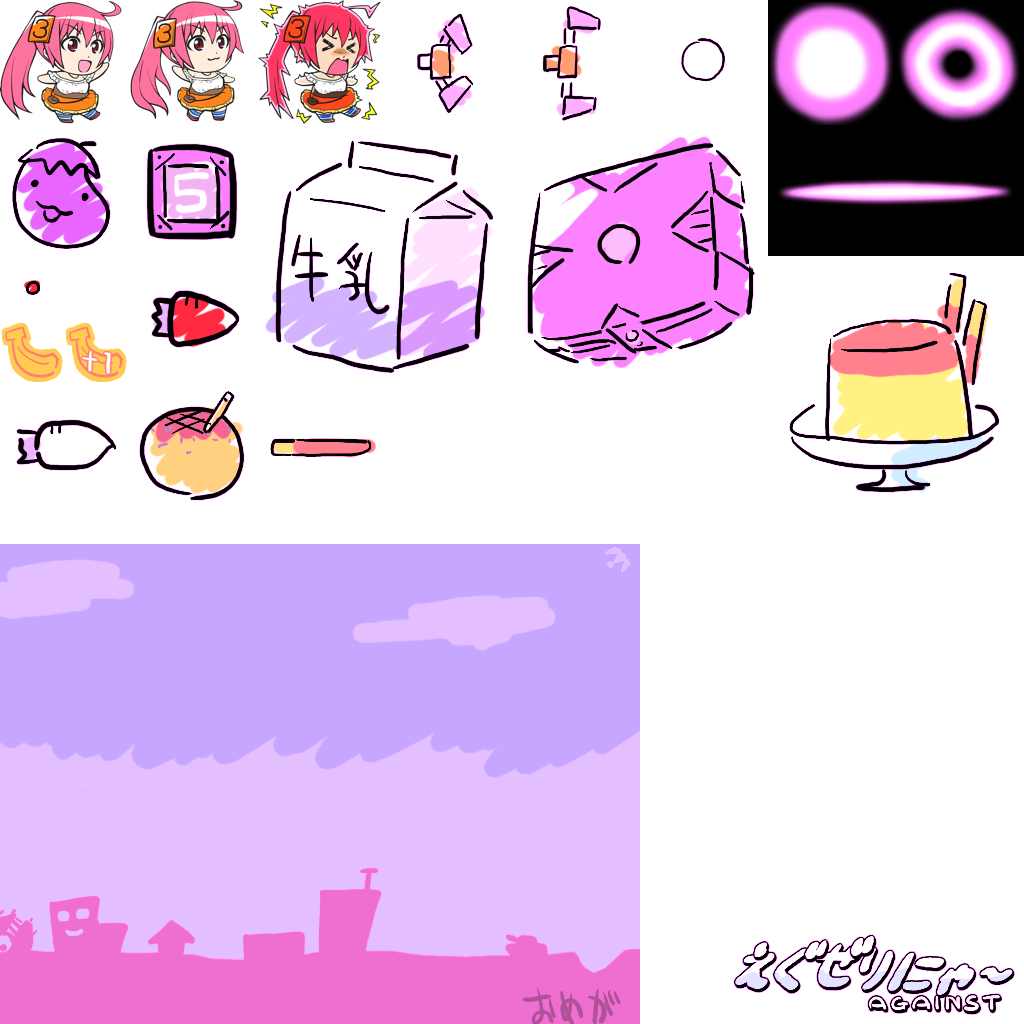
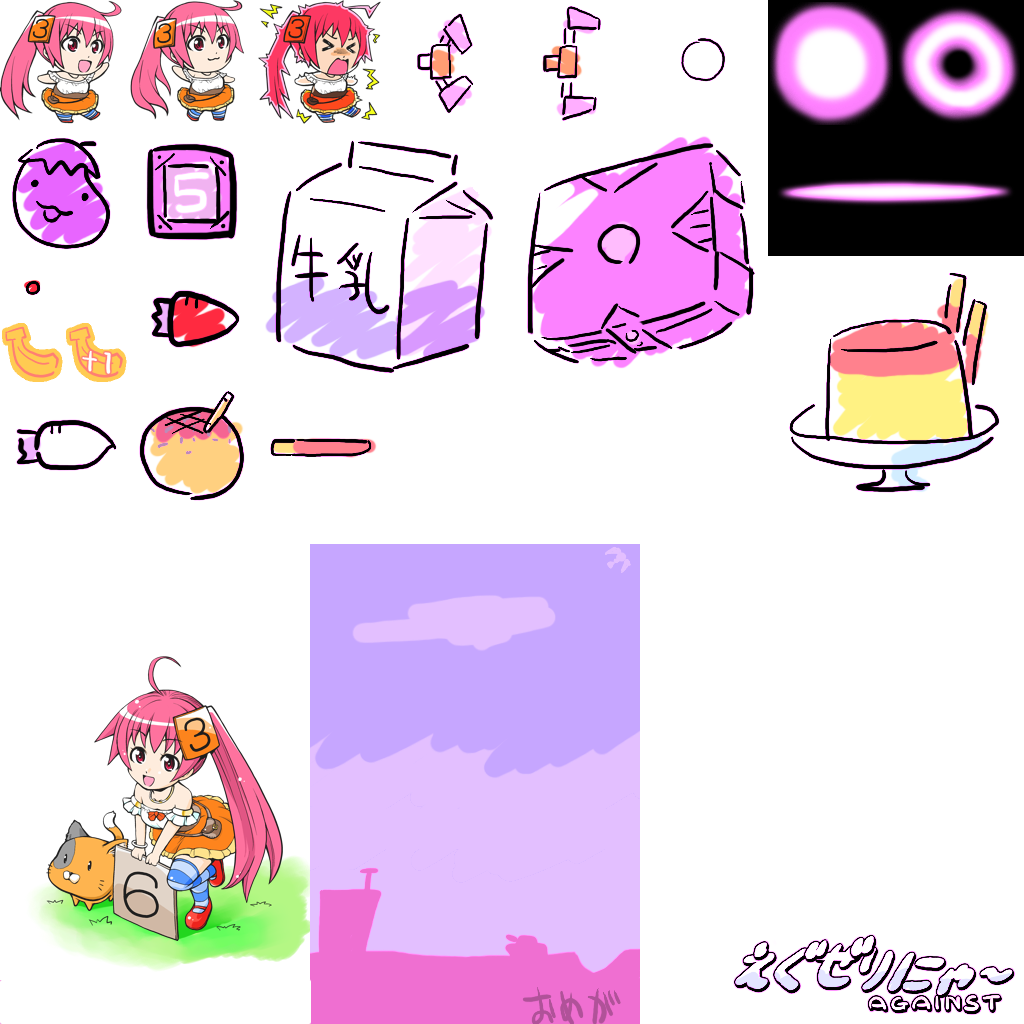
タイトル画像を仮実装

Changed region(s): [[0.0, 0.5312, 0.3125, 1.0]]

diff --git a/Connect_X_Connect/SceneTitle.mm b/Connect_X_Connect/SceneTitle.mm
@@ -92,19 +92,19 @@ static SceneTitle* scene_ = nil;
     
     self.fontHiScore = [AsciiFont node];
     [self.fontHiScore createFont:self.baseLayer length:24];
-    [self.fontHiScore setPos:7 y:31];
+    [self.fontHiScore setPos:7 y:25];
     [self.fontHiScore setScale:2];
     [self.fontHiScore setText:[NSString stringWithFormat:@"HI-SCORE %d", SaveData_GetHiScore()]];
     
     self.fontRank = [AsciiFont node];
     [self.fontRank createFont:self.baseLayer length:24];
-    [self.fontRank setPos:7 y:29];
+    [self.fontRank setPos:7 y:23];
     [self.fontRank setScale:2];
     [self.fontRank setText:[NSString stringWithFormat:@"LEVEL    %d", SaveData_GetRank()]];
     
     self.fontRankMax = [AsciiFont node];
     [self.fontRankMax createFont:self.baseLayer length:24];
-    [self.fontRankMax setPos:7 y:27];
+    [self.fontRankMax setPos:7 y:21];
     [self.fontRankMax setScale:2];
     [self.fontRankMax setText:[NSString stringWithFormat:@"HI-LEVEL %d", SaveData_GetRankMax()]];
     
@@ -117,7 +117,7 @@ static SceneTitle* scene_ = nil;
     
     self.fontStartButton = [AsciiFont node];
     [self.fontStartButton createFont:self.baseLayer length:12];
-    [self.fontStartButton setPos:20 y:18];
+    [self.fontStartButton setPos:20 y:15];
     [self.fontStartButton setAlign:eFontAlign_Center];
     [self.fontStartButton setScale:2];
     [self.fontStartButton setText:@"START"];

diff --git a/Connect_X_Connect/BackTitle.mm b/Connect_X_Connect/BackTitle.mm
@@ -11,9 +11,9 @@
 #import "Math.h"
 #import "SceneTitle.h"
 
-static const float POS_RANK_L = 40;
+static const float POS_RANK_L = 36;
 static const float POS_RANK_R = 320-POS_RANK_L;
-static const float POS_RANK_Y = 240;
+static const float POS_RANK_Y = 240-48;
 
 /**
  * タイトル画面用背景
@@ -35,7 +35,10 @@ static const float POS_RANK_Y = 240;
     [self move:0];
     
     // 背景画像を設定
-    [self setTexRect:Exerinya_GetRect(eExerinyaRect_Back)];
+    CGRect r = CGRectMake(0, 545, 308, 468);
+    [self setTexRect:r];
+    [self setScale:1.1];
+//    [self setTexRect:Exerinya_GetRect(eExerinyaRect_Back)];
 //    [self setVisible:NO];
     
     // 変数初期化

diff --git a/Connect_X_Connect/SceneTitle.h b/Connect_X_Connect/SceneTitle.h
@@ -15,12 +15,12 @@
 
 // ランク選択タッチエリア
 static const float RANK_SELECT_RECT_X = 0;
-static const float RANK_SELECT_RECT_Y = 240-32;
+static const float RANK_SELECT_RECT_Y = 240-80;
 static const float RANK_SELECT_RECT_W = 320;
 static const float RANK_SELECT_RECT_H = 64;
 
 static const float START_BUTTON_RECT_X = 160-96;
-static const float START_BUTTON_RECT_Y = 124;
+static const float START_BUTTON_RECT_Y = 100;
 static const float START_BUTTON_RECT_W = 96*2;
 static const float START_BUTTON_RECT_H = 48;
 
